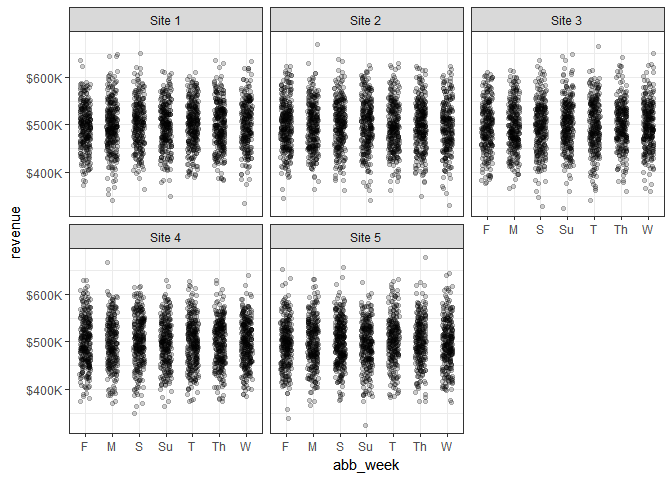
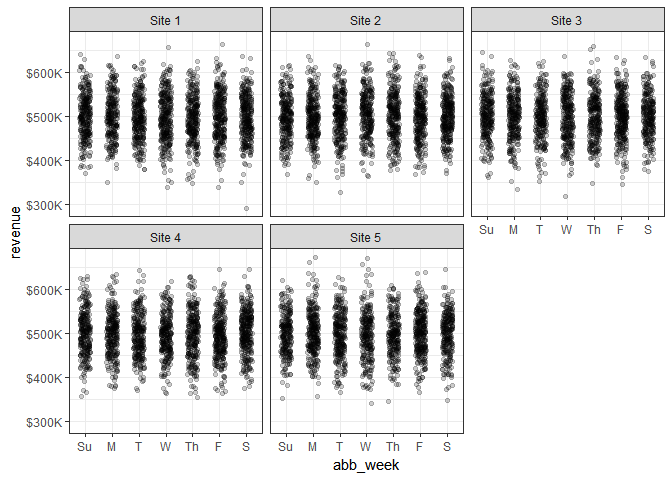
fixed factoring

diff --git a/README.md b/README.md
@@ -63,7 +63,7 @@ formats individual values in the vector while the latter uses the vector
 to compute a calculation on each of the values and then formats them.
 
 <!-- html table generated in R 3.3.2 by xtable 1.8-2 package -->
-<!-- Thu Dec 22 11:37:07 2016 -->
+<!-- Thu Dec 22 11:39:56 2016 -->
 <table>
 <tr>
 <td>
@@ -261,7 +261,7 @@ Plotting
             thous = f_thous(revenue),
             thous_dollars = f_thous(revenue, prefix = '$'),
             abb_month = f_month(date),
-            abb_week = f_weekday(date, distinct = TRUE)
+            abb_week = factor(f_weekday(date, distinct = TRUE), levels = c('Su', 'M', 'T', 'W', 'Th', 'F', 'S'))
         ) %T>%
         print() %>%
         ggplot(aes(abb_week, revenue)) +
@@ -273,17 +273,17 @@ Plotting
     ## # A tibble: 10,000 × 8
     ##     revenue       date   site  dollar thous thous_dollars abb_month
     ##       <dbl>     <date>  <chr>   <chr> <chr>         <chr>     <chr>
-    ## 1  485137.9 1999-12-01 Site 5 $485000  485K         $485K         D
-    ## 2  557003.2 1999-12-13 Site 5 $557000  557K         $557K         D
-    ## 3  504327.6 1999-07-28 Site 5 $504000  504K         $504K         J
-    ## 4  499311.9 1999-12-06 Site 1 $499000  499K         $499K         D
-    ## 5  515171.6 1999-06-15 Site 4 $515000  515K         $515K         J
-    ## 6  591029.9 1999-07-31 Site 3 $591000  591K         $591K         J
-    ## 7  539718.0 1999-04-07 Site 3 $540000  540K         $540K         A
-    ## 8  430662.6 1999-01-10 Site 5 $431000  431K         $431K         J
-    ## 9  464238.4 1999-04-08 Site 5 $464000  464K         $464K         A
-    ## 10 465105.9 1999-01-05 Site 5 $465000  465K         $465K         J
-    ## # ... with 9,990 more rows, and 1 more variables: abb_week <chr>
+    ## 1  452330.0 1999-10-15 Site 1 $452000  452K         $452K         O
+    ## 2  593915.8 1999-08-15 Site 3 $594000  594K         $594K         A
+    ## 3  413368.6 1999-04-17 Site 1 $413000  413K         $413K         A
+    ## 4  530987.9 1999-09-24 Site 3 $531000  531K         $531K         S
+    ## 5  501330.1 1999-02-28 Site 4 $501000  501K         $501K         F
+    ## 6  481456.4 1999-05-23 Site 2 $481000  481K         $481K         M
+    ## 7  441079.1 1999-08-29 Site 4 $441000  441K         $441K         A
+    ## 8  549676.1 1999-01-11 Site 1 $550000  550K         $550K         J
+    ## 9  496630.2 1999-11-12 Site 4 $497000  497K         $497K         N
+    ## 10 393438.1 1999-09-17 Site 2 $393000  393K         $393K         S
+    ## # ... with 9,990 more rows, and 1 more variables: abb_week <fctr>
 
 ![](inst/figure/unnamed-chunk-10-1.png)
 
